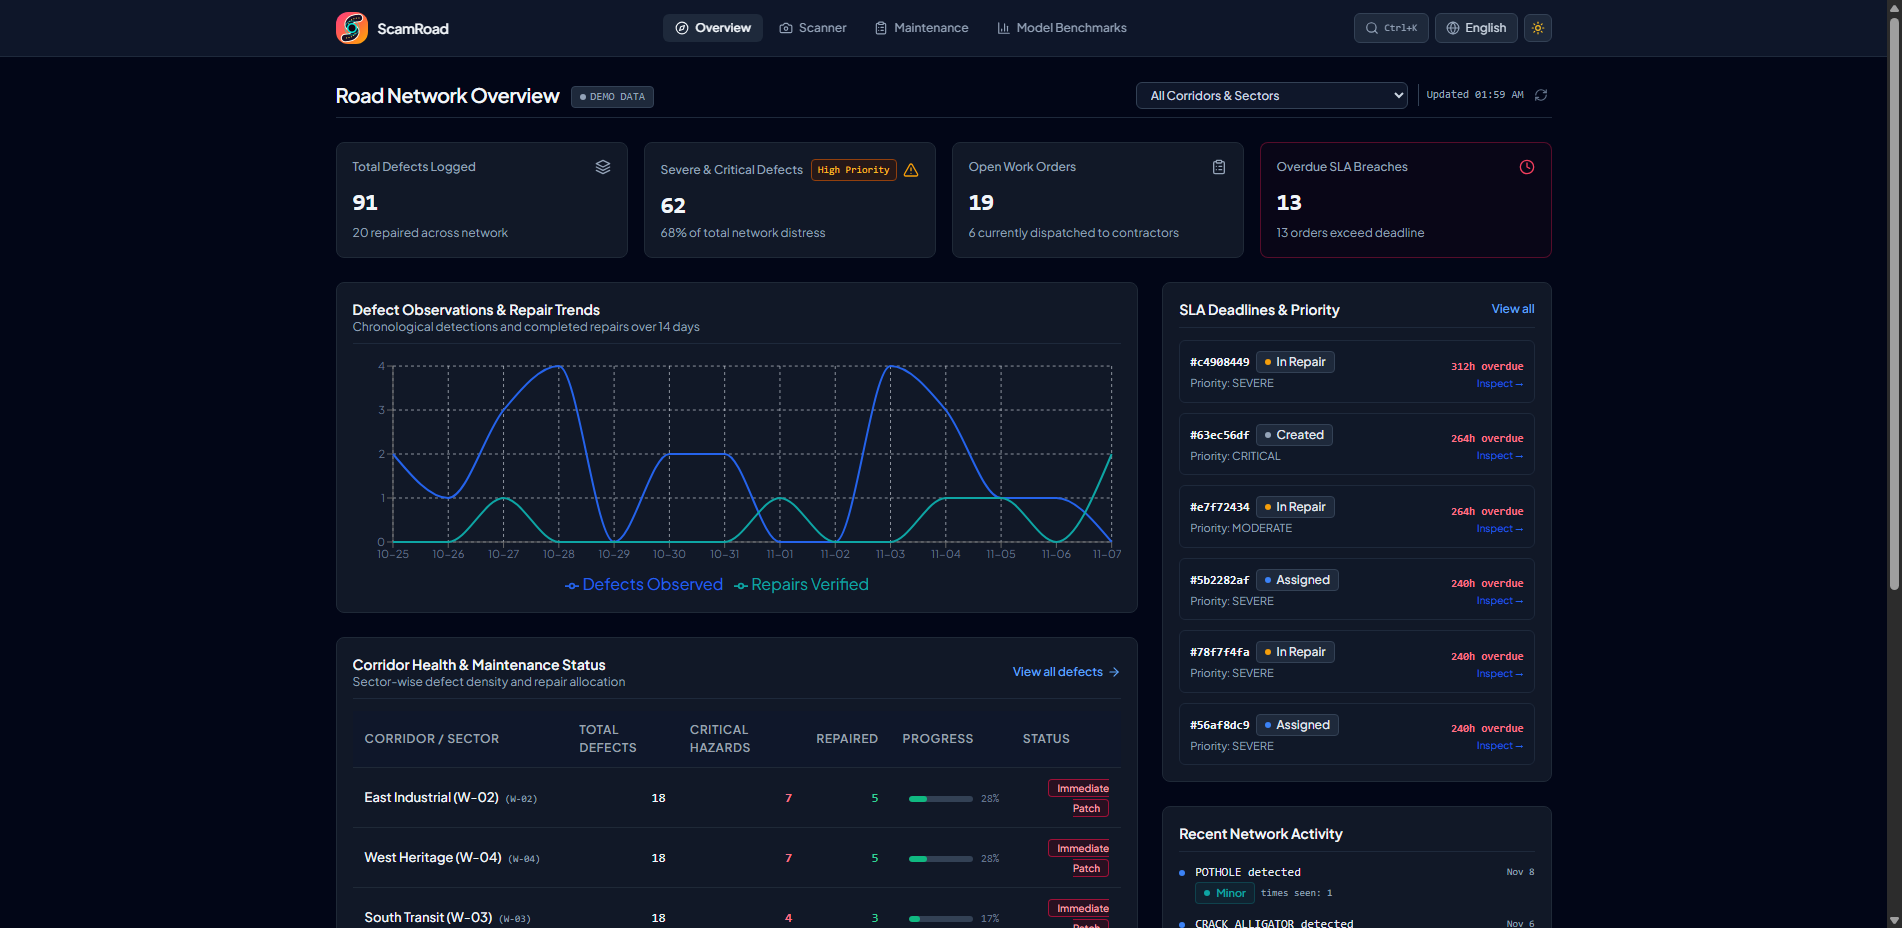
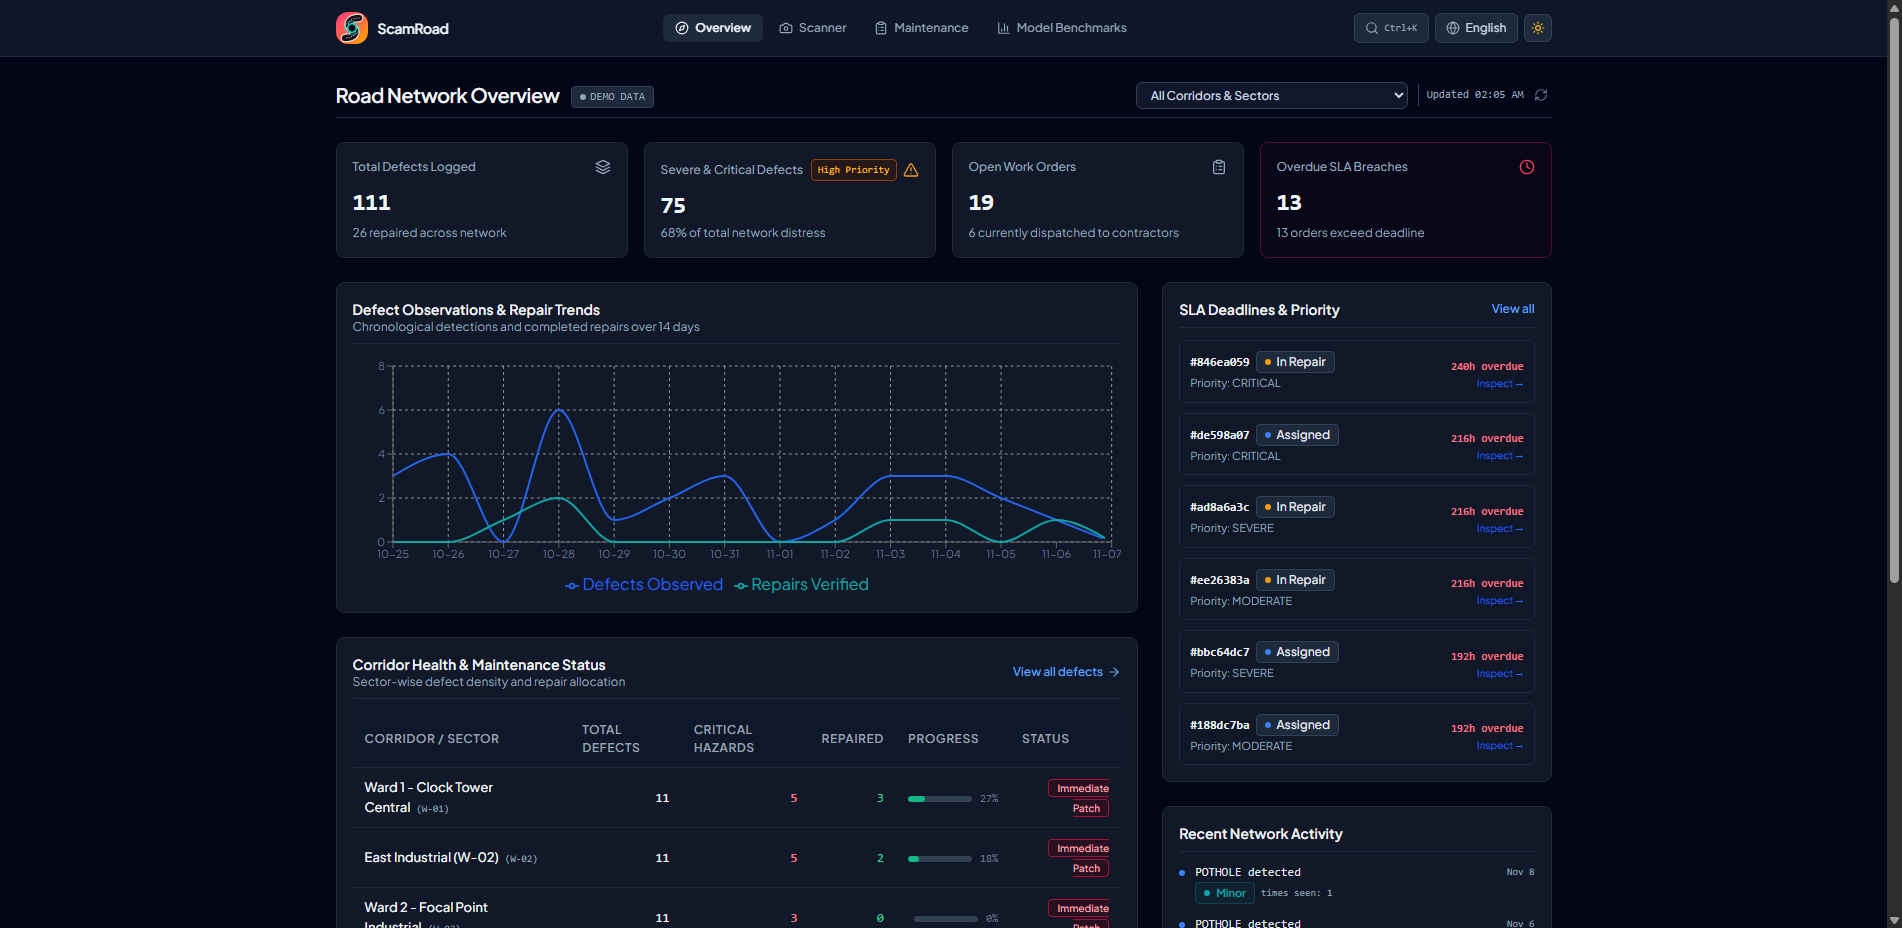
fix(seed): distribute defects across all municipal wards and update live screenshots

diff --git a/web/src/ui/StatusChip.tsx b/web/src/ui/StatusChip.tsx
@@ -49,3 +49,4 @@ export const StatusChip: React.FC<StatusChipProps> = ({ status, className = "" }
     </span>
   );
 };
+

diff --git a/web/src/ui/DemoBadge.tsx b/web/src/ui/DemoBadge.tsx
@@ -49,3 +49,4 @@ export const DemoBadge: React.FC<DemoBadgeProps> = ({ className = "" }) => {
     </div>
   );
 };
+

diff --git a/web/src/ui/SegmentedControl.tsx b/web/src/ui/SegmentedControl.tsx
@@ -74,3 +74,4 @@ export function SegmentedControl<T extends string = string>({
     </div>
   );
 }
+

diff --git a/web/src/ui/StatCard.tsx b/web/src/ui/StatCard.tsx
@@ -70,3 +70,4 @@ export const StatCard: React.FC<StatCardProps> = ({
     </div>
   );
 };
+

diff --git a/scripts/seed_demo_data.py b/scripts/seed_demo_data.py
@@ -27,6 +27,7 @@ from backend.app.models.defect import (
 from backend.app.models.device import Device
 from backend.app.models.geo import District, Road, RoadSegment, Ward
 from backend.app.models.maintenance import (
+    BudgetAllocation,
     Contractor,
     RepairRecord,
     RepairVerification,
@@ -144,6 +145,24 @@ def seed_demo_data(reset: bool = False) -> None:
                 session.flush()
             segments.append(seg)
 
+        # Ensure we use ALL road segments across all wards in the database
+        all_segments = session.scalars(select(RoadSegment)).all()
+        if all_segments:
+            segments = all_segments
+
+        # Ensure BudgetAllocations exist for all wards
+        for w in session.scalars(select(Ward)).all():
+            existing_b = session.scalar(select(BudgetAllocation).where(BudgetAllocation.ward_id == w.id))
+            if not existing_b:
+                session.add(
+                    BudgetAllocation(
+                        ward_id=w.id,
+                        fiscal_year="2025-2026",
+                        allocated_amount=5000000.0,
+                        spent_amount=round(random.uniform(1200000.0, 2400000.0), -3),
+                    )
+                )
+
         # 4. Contractors & SLA Policies
         sla_crit = session.scalar(select(SlaPolicy).where(SlaPolicy.severity_level == "Critical"))
         if not sla_crit:
@@ -208,9 +227,9 @@ def seed_demo_data(reset: bool = False) -> None:
             session.add(device)
             session.flush()
 
-        # 6. Generate 90 Realistic Defects spread over the last 45 days
+        # 6. Generate 110 Realistic Defects distributed across ALL road segments in ALL wards
         now = datetime.now(UTC)
-        classes = ["POTHOLE"] * 50 + ["CRACK_ALLIGATOR"] * 20 + ["CRACK_LONG"] * 12 + ["CRACK_TRANS"] * 8
+        classes = ["POTHOLE"] * 60 + ["CRACK_ALLIGATOR"] * 24 + ["CRACK_LONG"] * 16 + ["CRACK_TRANS"] * 10
         random.shuffle(classes)
 
         created_defects: list[Defect] = []
@@ -247,7 +266,7 @@ def seed_demo_data(reset: bool = False) -> None:
                 level = "Minor"
 
             times_seen = random.randint(1, 8)
-            status = random.choice(["ACTIVE", "ACTIVE", "ACTIVE", "IN_REPAIR", "REPAIRED"])
+            status = random.choice(["ACTIVE", "ACTIVE", "IN_REPAIR", "REPAIRED"])
 
             defect = Defect(
                 class_code=code,

diff --git a/scripts/check_ui_copy.py b/scripts/check_ui_copy.py
@@ -85,3 +85,4 @@ if __name__ == "__main__":
     else:
         print(f"✅ Anti-slop copy check passed with 0 violations in {target}!")
         sys.exit(0)
+

diff --git a/scripts/verify_v10_live_chrome.py b/scripts/verify_v10_live_chrome.py
@@ -138,3 +138,4 @@ try:
 
 finally:
     driver.quit()
+

diff --git a/docs/UI_AUDIT.md b/docs/UI_AUDIT.md
@@ -18,3 +18,4 @@
 ## 2. Target Design Language
 - **Linear / GitHub / Stripe Dashboard Restraint:** Flat 1px border lines, slate surfaces, compact 40px table rows, high density, JetBrains Mono for numbers/coordinates, Plus Jakarta Sans for UI.
 - Real data only. Demo data flagged with plain DEMO badge.
+

diff --git a/docs/UI_FIX_V10.md b/docs/UI_FIX_V10.md
@@ -36,3 +36,4 @@ P6  KEEP what is correct and valuable: honest labels (relative area %, estimated
 P7  Never weaken or delete a test to pass. Fix root causes. Regression test per bug.
 P8  Ask only for licence doubts or destructive actions; otherwise decide, log in docs/UI_DECISIONS.md, continue.
 ```
+
